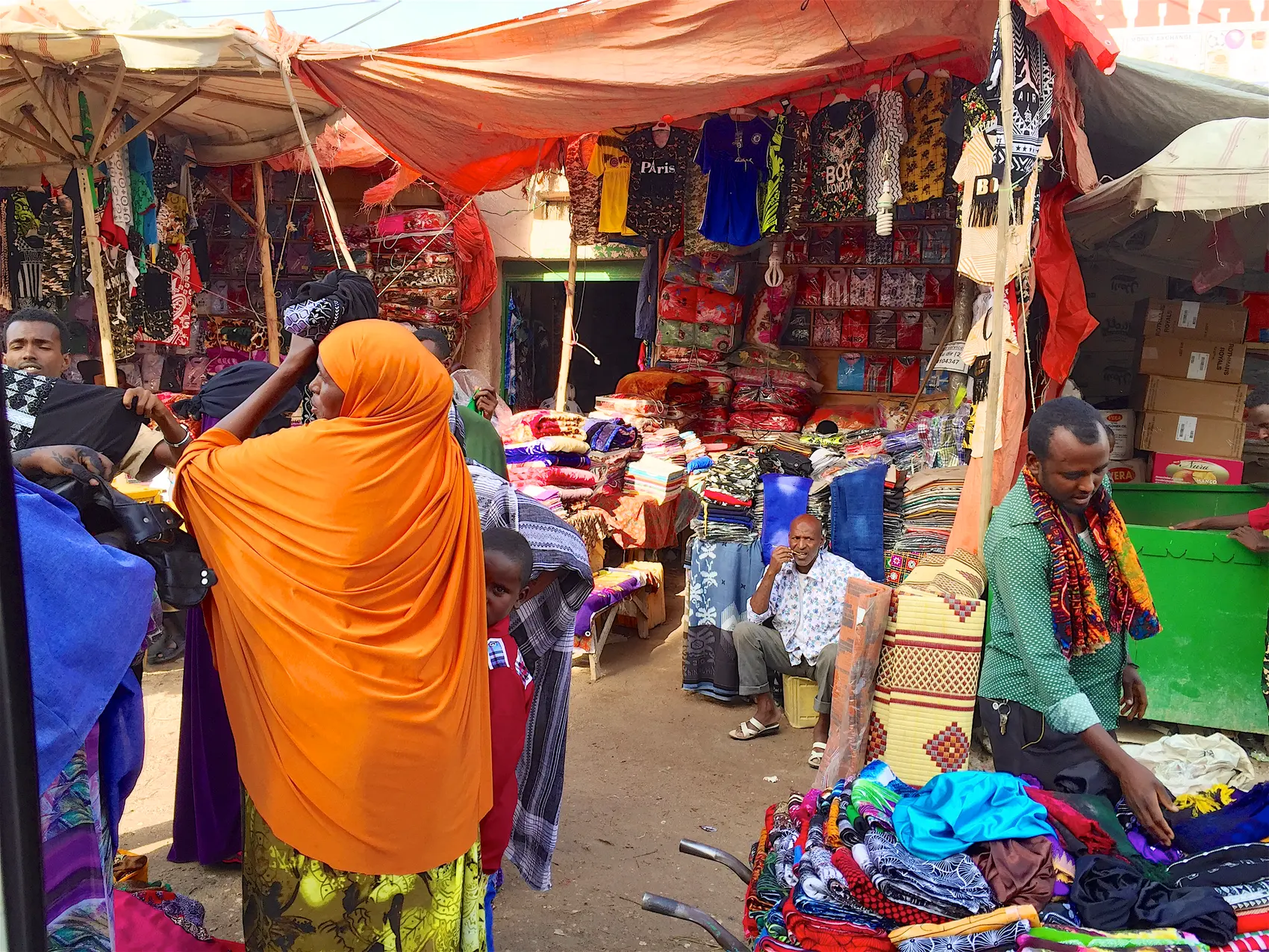
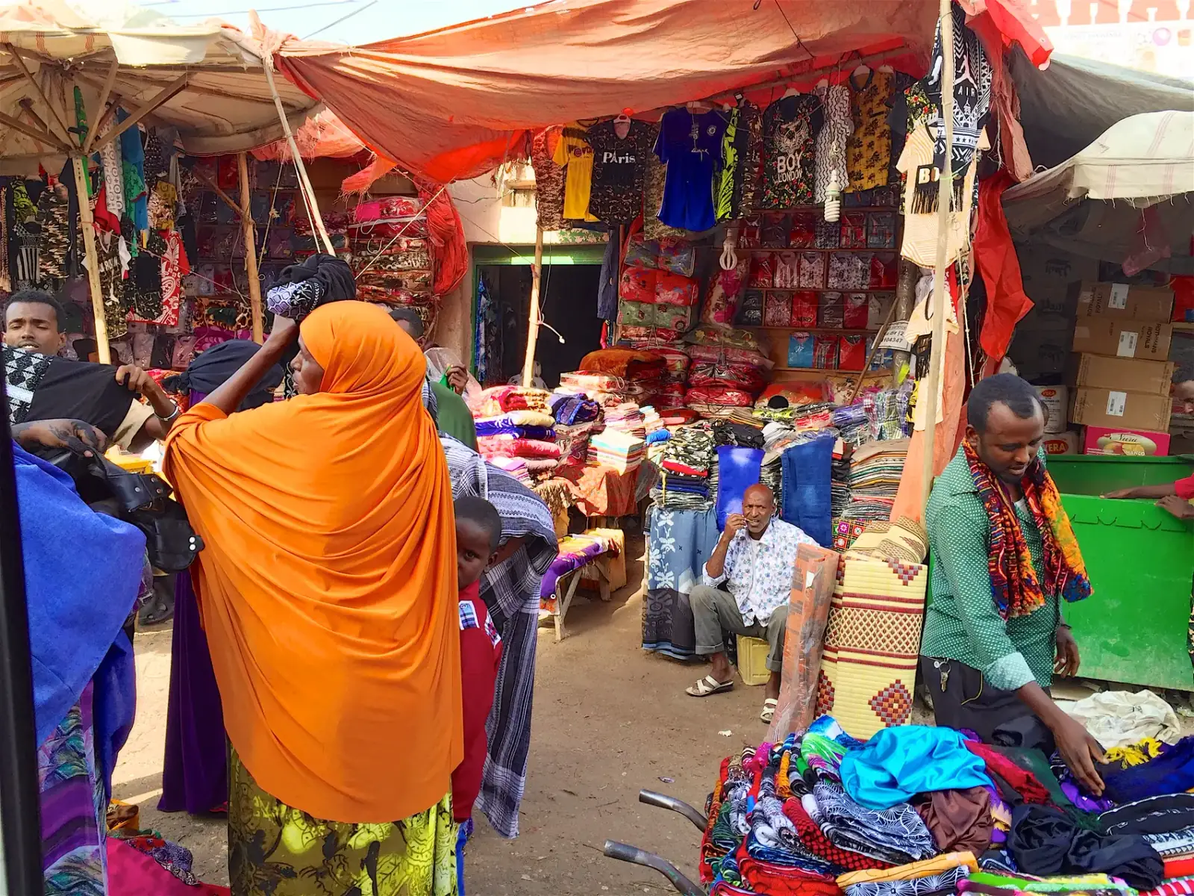
Fix SEO audit issues: titles, descriptions, links, images
Fit page titles to 30-60 characters and descriptions to 110-155, add
related-post and footer links to under-linked pages, add copy to thin
pages, compress oversized photos and cap generated image widths at 1920px.

Changed region(s): [[0.9688, 0.9867, 1.0, 1.0]]

diff --git a/lib/photos.ts b/lib/photos.ts
@@ -9,7 +9,7 @@ export const photos = {
       title: "Lido Beach 2023",
       creator: "Dan Sloan",
       license: "CC BY-SA 2.0",
-      licenseUrl: "https://creativecommons.org/licenses/by-sa/2.0",
+      licenseUrl: "https://creativecommons.org/licenses/by-sa/2.0/",
       source: "https://commons.wikimedia.org/wiki/File:Lido_Beach_2023.jpg",
     },
   },
@@ -22,7 +22,7 @@ export const photos = {
       title: "View of Mogadishu fishing harbour from the Aruba Hotel 2012-08-06",
       creator: "AMISOM Public Information",
       license: "CC0",
-      licenseUrl: "http://creativecommons.org/publicdomain/zero/1.0/deed.en",
+      licenseUrl: "https://creativecommons.org/publicdomain/zero/1.0/deed.en",
       source: "https://commons.wikimedia.org/wiki/File:View_of_Mogadishu_fishing_harbour_from_the_Aruba_Hotel_2012-08-06.jpg",
     },
   },
@@ -35,7 +35,7 @@ export const photos = {
       title: "Mogadishu Daily Life one year after Al Shabaab 07 (7731061156)",
       creator: "AMISOM Public Information",
       license: "CC0",
-      licenseUrl: "http://creativecommons.org/publicdomain/zero/1.0/deed.en",
+      licenseUrl: "https://creativecommons.org/publicdomain/zero/1.0/deed.en",
       source: "https://commons.wikimedia.org/wiki/File:Mogadishu_Daily_Life_one_year_after_Al_Shabaab_07_(7731061156).jpg",
     },
   },
@@ -48,7 +48,7 @@ export const photos = {
       title: "Street Market Hargeisa, Somaliland (29322262370)",
       creator: "Clay Gilliland from Chandler, U.S.A.",
       license: "CC BY-SA 2.0",
-      licenseUrl: "https://creativecommons.org/licenses/by-sa/2.0",
+      licenseUrl: "https://creativecommons.org/licenses/by-sa/2.0/",
       source: "https://commons.wikimedia.org/wiki/File:Street_Market_Hargeisa,_Somaliland_(29322262370).jpg",
     },
   },
@@ -61,7 +61,7 @@ export const photos = {
       title: "Money market in Hargeisa, Somaliland - 36204098983",
       creator: "WorldRemit Comms",
       license: "CC BY-SA 2.0",
-      licenseUrl: "https://creativecommons.org/licenses/by-sa/2.0",
+      licenseUrl: "https://creativecommons.org/licenses/by-sa/2.0/",
       source: "https://commons.wikimedia.org/wiki/File:Money_market_in_Hargeisa,_Somaliland_-_36204098983.jpg",
     },
   },
@@ -74,7 +74,7 @@ export const photos = {
       title: "The Camel Market (29536613421)",
       creator: "Clay Gilliland from Chandler, U.S.A.",
       license: "CC BY-SA 2.0",
-      licenseUrl: "https://creativecommons.org/licenses/by-sa/2.0",
+      licenseUrl: "https://creativecommons.org/licenses/by-sa/2.0/",
       source: "https://commons.wikimedia.org/wiki/File:The_Camel_Market_(29536613421).jpg",
     },
   },
@@ -87,7 +87,7 @@ export const photos = {
       title: "Aerial views of Kismayo 08 (8071374374)",
       creator: "AMISOM Public Information",
       license: "CC0",
-      licenseUrl: "http://creativecommons.org/publicdomain/zero/1.0/deed.en",
+      licenseUrl: "https://creativecommons.org/publicdomain/zero/1.0/deed.en",
       source: "https://commons.wikimedia.org/wiki/File:Aerial_views_of_Kismayo_08_(8071374374).jpg",
     },
   },
@@ -100,7 +100,7 @@ export const photos = {
       title: "Berbera Somaliland view northeast",
       creator: "Brian Dell",
       license: "CC0",
-      licenseUrl: "http://creativecommons.org/publicdomain/zero/1.0/deed.en",
+      licenseUrl: "https://creativecommons.org/publicdomain/zero/1.0/deed.en",
       source: "https://commons.wikimedia.org/wiki/File:Berbera_Somaliland_view_northeast.JPG",
     },
   },
@@ -113,7 +113,7 @@ export const photos = {
       title: "Garowe 30ka Street",
       creator: "Omar Abdulkadir",
       license: "CC BY-SA 2.0",
-      licenseUrl: "https://creativecommons.org/licenses/by-sa/2.0",
+      licenseUrl: "https://creativecommons.org/licenses/by-sa/2.0/",
       source: "https://commons.wikimedia.org/wiki/File:Garowe_30ka_Street.png",
     },
   },
@@ -126,7 +126,7 @@ export const photos = {
       title: "Garowe",
       creator: "Omar Dr Abdulkadir",
       license: "CC BY-SA 4.0",
-      licenseUrl: "https://creativecommons.org/licenses/by-sa/4.0",
+      licenseUrl: "https://creativecommons.org/licenses/by-sa/4.0/",
       source: "https://commons.wikimedia.org/wiki/File:Garowe.jpg",
     },
   },
@@ -139,7 +139,7 @@ export const photos = {
       title: "A donkey stands in the middle of a roundabout in Baidoa, Somalia, during a night patrol conducted by the Ethiopian contingent of the African Union Mission in Somalia on June 22. AMISOM Photo - Tobin (14517477954)",
       creator: "AMISOM Public Information",
       license: "CC0",
-      licenseUrl: "http://creativecommons.org/publicdomain/zero/1.0/deed.en",
+      licenseUrl: "https://creativecommons.org/publicdomain/zero/1.0/deed.en",
       source: "https://commons.wikimedia.org/wiki/File:A_donkey_stands_in_the_middle_of_a_roundabout_in_Baidoa,_Somalia,_during_a_night_patrol_conducted_by_the_Ethiopian_contingent_of_the_African_Union_Mission_in_Somalia_on_June_22._AMISOM_Photo_-_Tobin_(14517477954).jpg",
     },
   },
@@ -152,7 +152,7 @@ export const photos = {
       title: "2013 09 10 Belet Weyne Snapshots 2 G.jpg (9720553827)",
       creator: "AMISOM Public Information",
       license: "CC0",
-      licenseUrl: "http://creativecommons.org/publicdomain/zero/1.0/deed.en",
+      licenseUrl: "https://creativecommons.org/publicdomain/zero/1.0/deed.en",
       source: "https://commons.wikimedia.org/wiki/File:2013_09_10_Belet_Weyne_Snapshots_2_G.jpg_(9720553827).jpg",
     },
   },
@@ -191,7 +191,7 @@ export const photos = {
       title: "Somalia 16.08.2009 08-30-13",
       creator: "Simisa",
       license: "CC BY-SA 3.0",
-      licenseUrl: "https://creativecommons.org/licenses/by-sa/3.0",
+      licenseUrl: "https://creativecommons.org/licenses/by-sa/3.0/",
       source: "https://commons.wikimedia.org/wiki/File:Somalia_16.08.2009_08-30-13.jpg",
     },
   },

diff --git a/lib/fit.ts b/lib/fit.ts
@@ -1,0 +1,86 @@
+/** Search-result limits used by audit tools such as Ahrefs. */
+export const MAX_TITLE = 60;
+export const MIN_TITLE = 30;
+export const MAX_DESCRIPTION = 155;
+export const MIN_DESCRIPTION = 110;
+export const BRAND = "Somalia Expert";
+
+/** Cut text at a word boundary so it fits, adding an ellipsis when shortened. */
+export function clipText(text: string, max: number): string {
+  const t = text.replace(/\s+/g, " ").trim();
+  if (t.length <= max) return t;
+  const cut = t.slice(0, max - 1);
+  return cut.slice(0, cut.lastIndexOf(" ")).replace(/[,;:.\s&|-]+$/, "") + "…";
+}
+
+const SEPARATORS = [" | ", " — ", " – ", " - ", ": "];
+
+/**
+ * Shorten an over-long title without cutting words mid-phrase:
+ * 1. drop the last " | …" / " - …" segment when what is left is still a meaningful title (30+ characters);
+ * 2. otherwise drop trailing list items from that segment ("Kenya, Tanzania, Uganda & Rwanda" → "Kenya, Tanzania, Uganda");
+ * 3. otherwise clip at a word boundary.
+ */
+export function shortenTitle(title: string, max = MAX_TITLE): string {
+  let t = title.replace(/\s+/g, " ").trim();
+  if (t.length <= max) return t;
+  const sep = SEPARATORS.find((s) => t.includes(s));
+  if (sep) {
+    const i = t.lastIndexOf(sep);
+    const head = t.slice(0, i);
+    if (head.length >= MIN_TITLE && head.length <= max) return head;
+    let tail = t.slice(i + sep.length);
+    while (head.length + sep.length + tail.length > max) {
+      const j = Math.max(tail.lastIndexOf(", "), tail.lastIndexOf(" & "), tail.lastIndexOf(" and "));
+      if (j <= 0) break;
+      tail = tail.slice(0, j);
+    }
+    t = head.length + sep.length + tail.length <= max ? `${head}${sep}${tail}` : head;
+    if (t.length <= max) return t;
+  }
+  // No separator: drop a trailing "& …" / ", …" phrase before clipping mid-sentence.
+  let u = t;
+  while (u.length > max) {
+    const j = Math.max(u.lastIndexOf(", "), u.lastIndexOf(" & "));
+    if (j < MIN_TITLE) break;
+    u = u.slice(0, j);
+  }
+  return u.length <= max ? u : clipText(t, max);
+}
+
+/**
+ * Fit a page title to 30–60 characters.
+ * - A title that already ends in the brand loses the brand first when it is too long.
+ * - mode "short": the brand is added only to titles under 30 characters ("Privacy Policy" → "Privacy Policy | Brand").
+ * - mode "fit": the brand is added whenever "Page | Brand" still fits in 60 characters.
+ */
+export function fitTitle(title: string, mode: "short" | "fit" = "short", brand: string = BRAND): string {
+  let t = title.replace(/\s+/g, " ").trim();
+  for (const sep of SEPARATORS) {
+    const suffix = `${sep}${brand}`;
+    if (t.endsWith(suffix)) {
+      if (t.length <= MAX_TITLE) return t;
+      t = t.slice(0, -suffix.length);
+      break;
+    }
+  }
+  const withBrand = `${t} | ${brand}`;
+  if ((mode === "fit" || t.length < MIN_TITLE) && withBrand.length <= MAX_TITLE) return withBrand;
+  return shortenTitle(t);
+}
+
+/** Appended to descriptions under 110 characters so they are not flagged as too short. */
+const DESCRIPTION_EXTRA = "Independent Somalia country expert evidence for UK asylum and immigration cases.";
+const DESCRIPTION_EXTRA_SHORT = "Somalia country expert evidence.";
+
+/** Clip descriptions to 155 characters and pad very short ones with a sentence about the site. */
+export function fitDescription(text: string): string {
+  const d = clipText(text, MAX_DESCRIPTION);
+  if (d.length >= MIN_DESCRIPTION) return d;
+  const base = d.replace(/[.\s]*$/, ".");
+  for (const e of [DESCRIPTION_EXTRA, DESCRIPTION_EXTRA_SHORT]) {
+    const padded = `${base} ${e}`;
+    if (padded.length <= MAX_DESCRIPTION + 5) return padded;
+  }
+  return d;
+}

diff --git a/app/blog/[slug]/page.tsx b/app/blog/[slug]/page.tsx
@@ -5,7 +5,7 @@ import Link from "next/link";
 import { notFound } from "next/navigation";
 import { CTASection } from "@/components/ui/CTASection";
 import { PageJsonLd } from "@/components/seo/PageJsonLd";
-import { getBlogBySlug } from "@/lib/blog";
+import { getBlogBySlug, getAllBlogPosts } from "@/lib/blog";
 import { SITE_NAME, SITE_URL } from "@/lib/constants";
 import { markdownToHtml } from "@/lib/markdown";
 import { createMetadata } from "@/lib/metadata";
@@ -49,6 +49,10 @@ export default async function BlogPostPage({ params }: Props) {
   const { slug } = await params;
   const post = getBlogBySlug(slug);
   if (!post) notFound();
+  // Cross-link posts so each has more than one internal link (previously only from /blog).
+  const morePosts = getAllBlogPosts()
+    .filter((p) => p.slug !== post.slug)
+    .slice(0, 3);
 
   const html = markdownToHtml(post.content);
   const url = `${SITE_URL}/blog/${post.slug}`;
@@ -101,6 +105,23 @@ export default async function BlogPostPage({ params }: Props) {
           <span>{post.readingTime}</span>
         </p>
         <div className="mt-10" dangerouslySetInnerHTML={{ __html: html }} />
+
+        {morePosts.length > 0 ? (
+          <nav aria-labelledby="more-from-blog" className="mt-12">
+            <h2 id="more-from-blog" className="text-lg font-semibold">
+              More from the blog
+            </h2>
+            <ul className="mt-4 space-y-3">
+              {morePosts.map((p) => (
+                <li key={p.slug}>
+                  <Link href={`/blog/${p.slug}`} className="font-semibold text-[#29324D] hover:text-[#1C2338]">
+                    {p.title}
+                  </Link>
+                </li>
+              ))}
+            </ul>
+          </nav>
+        ) : null}
 
         <p className="not-prose mt-12 border-t border-[#C6CCDC] pt-8 text-sm">
           <Link href="/blog" className="font-semibold text-[#29324D] hover:text-[#1C2338]">

diff --git a/lib/metadata.ts b/lib/metadata.ts
@@ -1,4 +1,5 @@
 import type { Metadata } from "next";
+import { fitDescription } from "./fit";
 import { SITE_URL, SITE_NAME } from "./constants";
 
 export const META_DESCRIPTION_MAX = 155;
@@ -56,7 +57,7 @@ export function createMetadata({
   follow?: boolean;
 }): Metadata {
   const url = `${SITE_URL}${path}`;
-  const metaDescription = normalizeMetaDescription(description);
+  const metaDescription = fitDescription(normalizeMetaDescription(description));
   const pageTitle = normalizePageTitle(title);
   const fullTitle = renderPageTitle(title);
   return {

diff --git a/app/terms/page.tsx b/app/terms/page.tsx
@@ -3,7 +3,7 @@ import { PageShell } from "@/components/layout/PageShell";
 import { createMetadata } from "@/lib/metadata";
 
 export const metadata = createMetadata({
-  title: "Terms of Use",
+  title: "Website Terms of Use",
   description:
     "Terms for using Somalia Expert: UK-only expert witness matching for immigration solicitors in FTT and UT proceedings, service scope, no legal advice, and acceptable use.",
   path: "/terms",

diff --git a/app/blog/page.tsx b/app/blog/page.tsx
@@ -8,7 +8,7 @@ import { SITE_NAME, SITE_URL } from "@/lib/constants";
 import { createMetadata } from "@/lib/metadata";
 
 export const metadata = createMetadata({
-  title: "Blog | Somalia Expert",
+  title: "Somalia Asylum Evidence Blog",
   description:
     "Articles for solicitors on Somalia expert reports, CPIN gaps, case-specific country evidence, and instructing a Somalia country expert.",
   path: "/blog",

diff --git a/next.config.ts b/next.config.ts
@@ -11,6 +11,8 @@ const nextConfig: NextConfig = {
     "/sitemap.xml": ["./content/blog/**/*"],
   },
   images: {
+    // Largest generated width is 1920px (default goes to 3840px, which produced 500 KB–1 MB photos).
+    deviceSizes: [640, 750, 828, 1080, 1200, 1600, 1920],
     formats: ["image/avif", "image/webp"],
   },
 };
